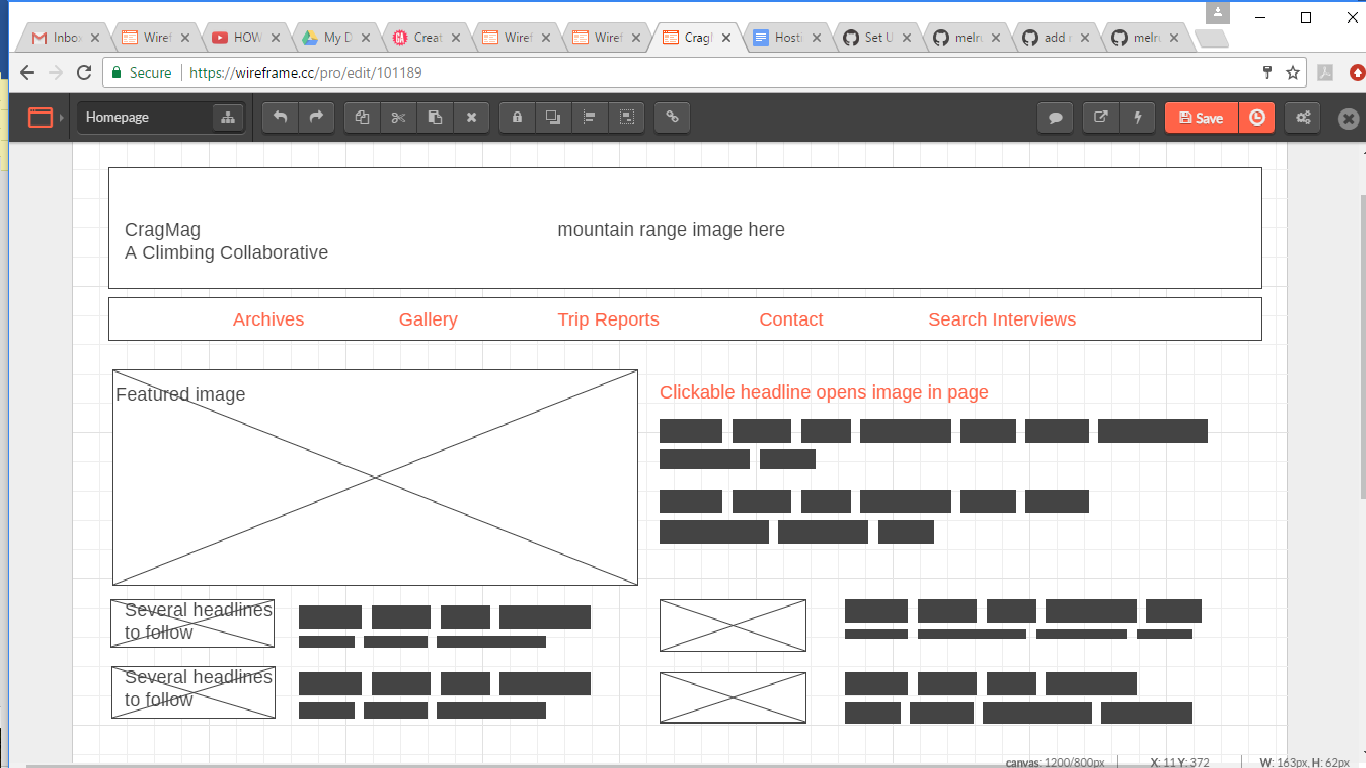
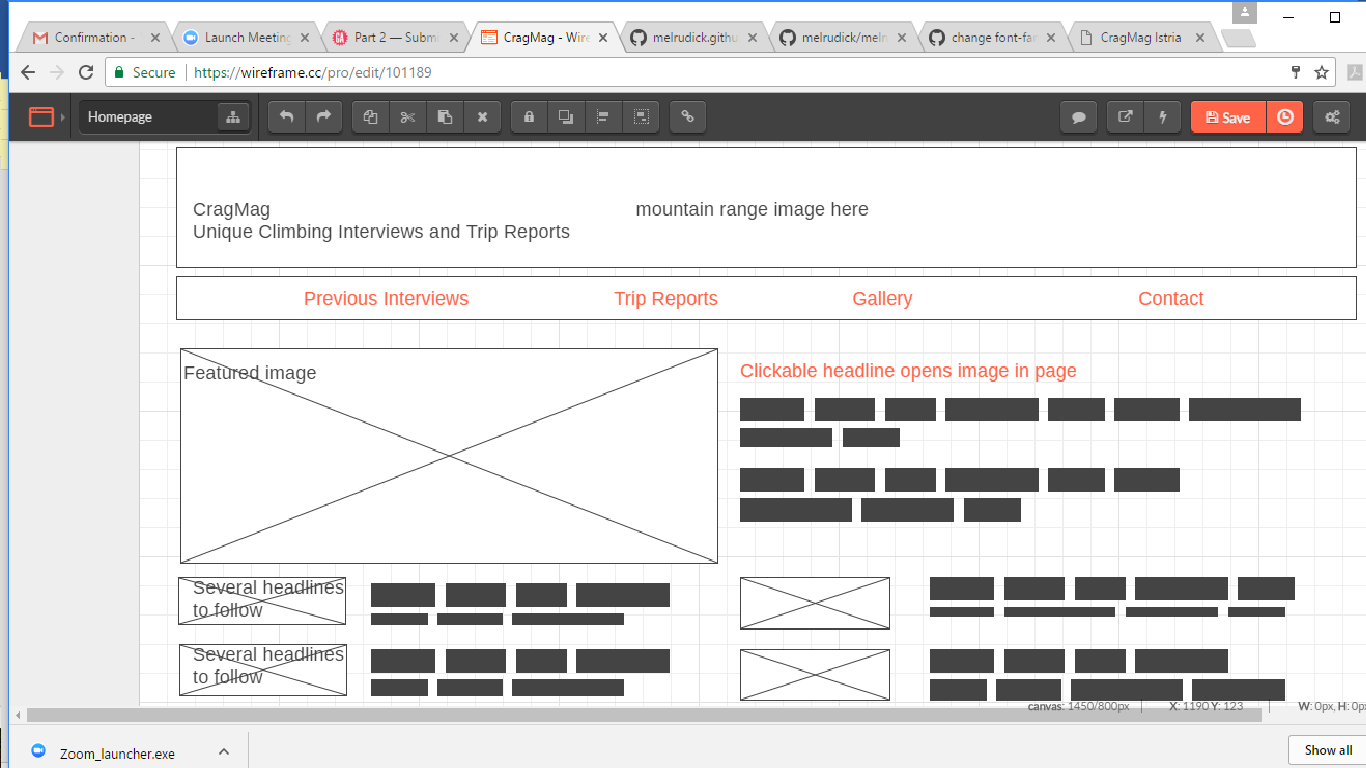
Change heading, change homepage mockup

diff --git a/unit_1/index.html b/unit_1/index.html
@@ -6,5 +6,5 @@
 </head>
 <body>
 	<h1>CragMag</h1>
-	<h2>A Climbing Collaborative</h2>
+	<h2>Unique Climbing Interviews and Trip Reports</h2>
 </body>

diff --git a/unit_1/css/style.css b/unit_1/css/style.css
@@ -4,7 +4,7 @@ body {
 
 }
 
-h1, p {
+h1, h2 {
 	color: black;
-	font-family: helvetica;
+	font-family: flood;
 }
